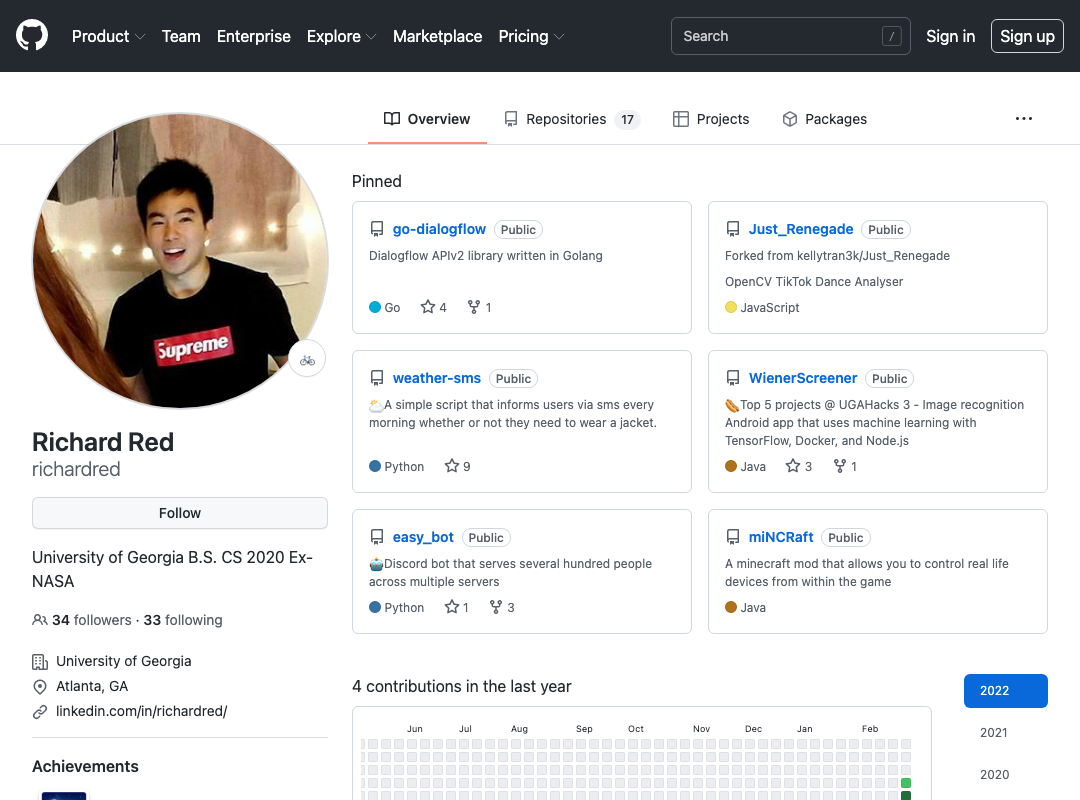
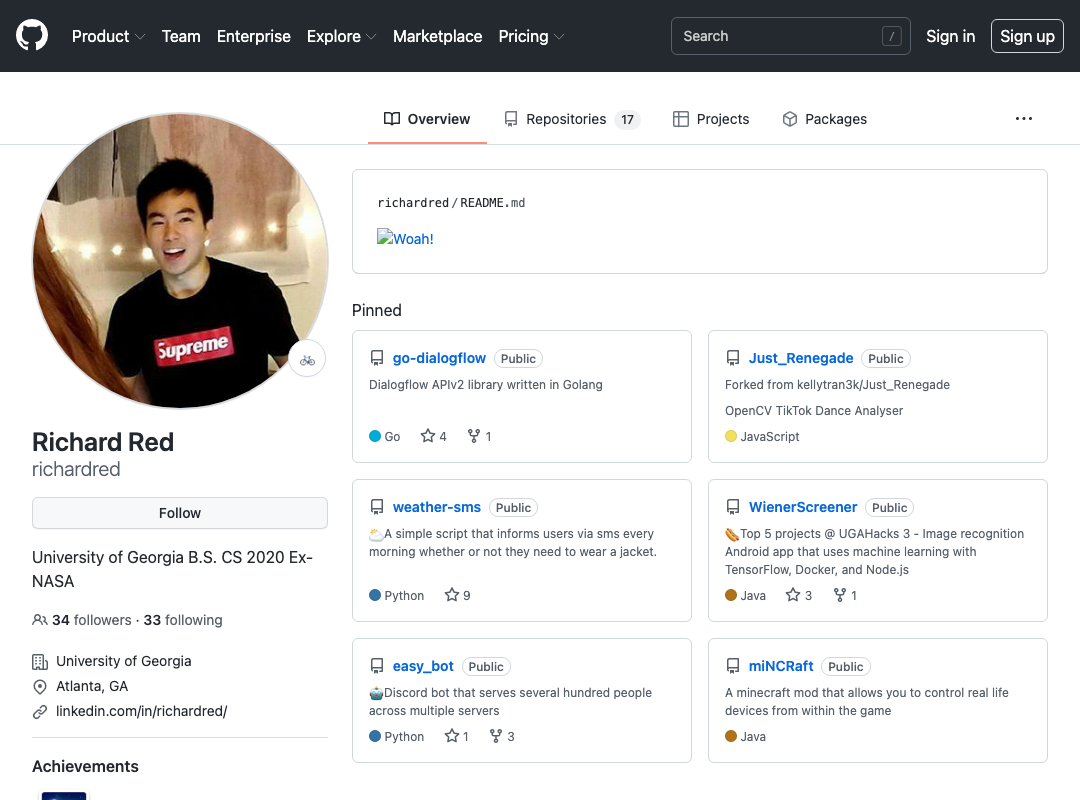
adds new screenshot at depth5

diff --git a/README.md b/README.md
@@ -1,1 +1,1 @@
-![Woah!](https://github.com/richardred/richardred/blob/master/screenshot-1.png)
+![Woah!](https://github.com/richardred/richardred/blob/master/screenshot-5.png)
